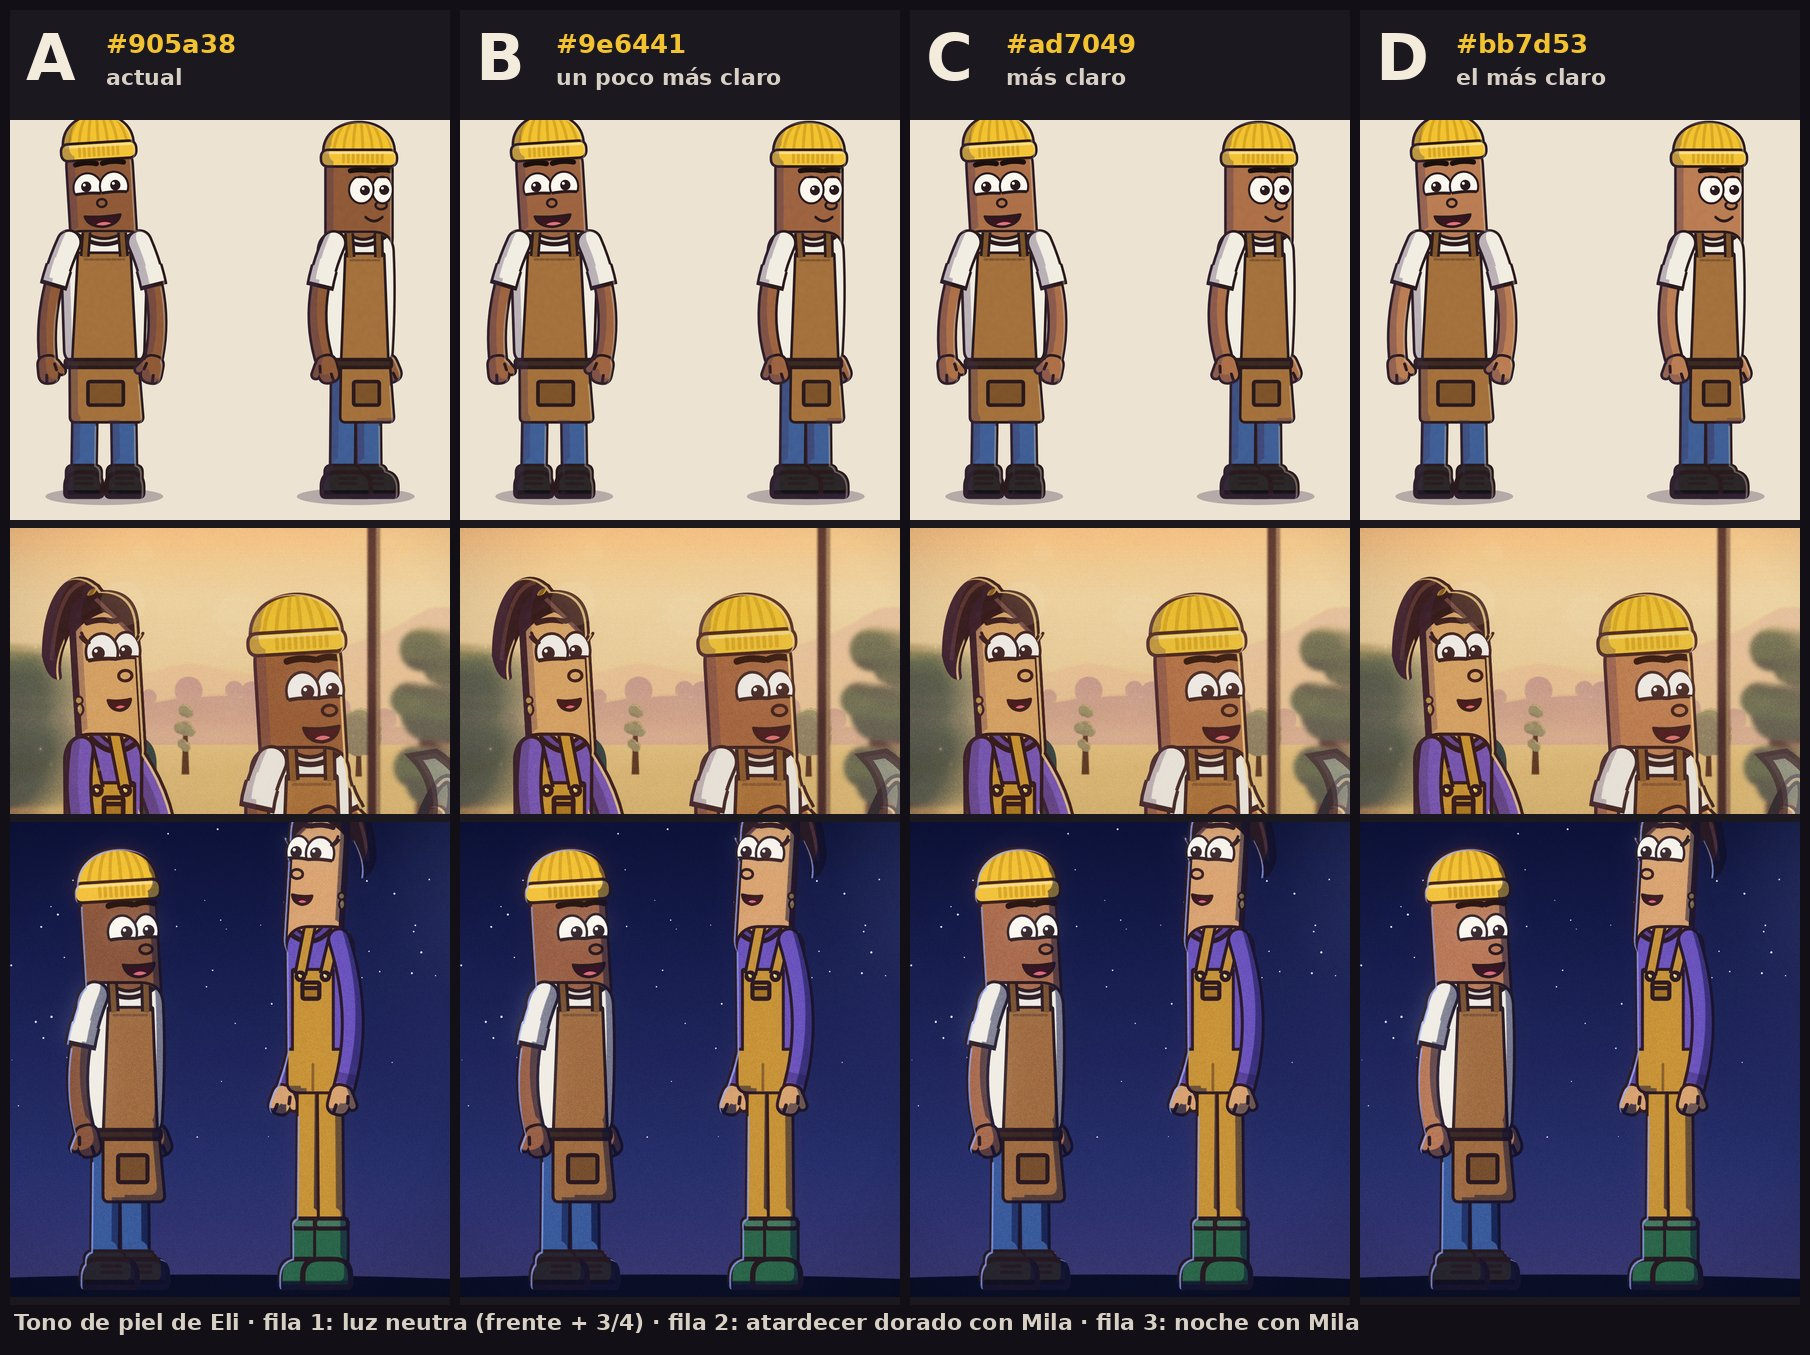
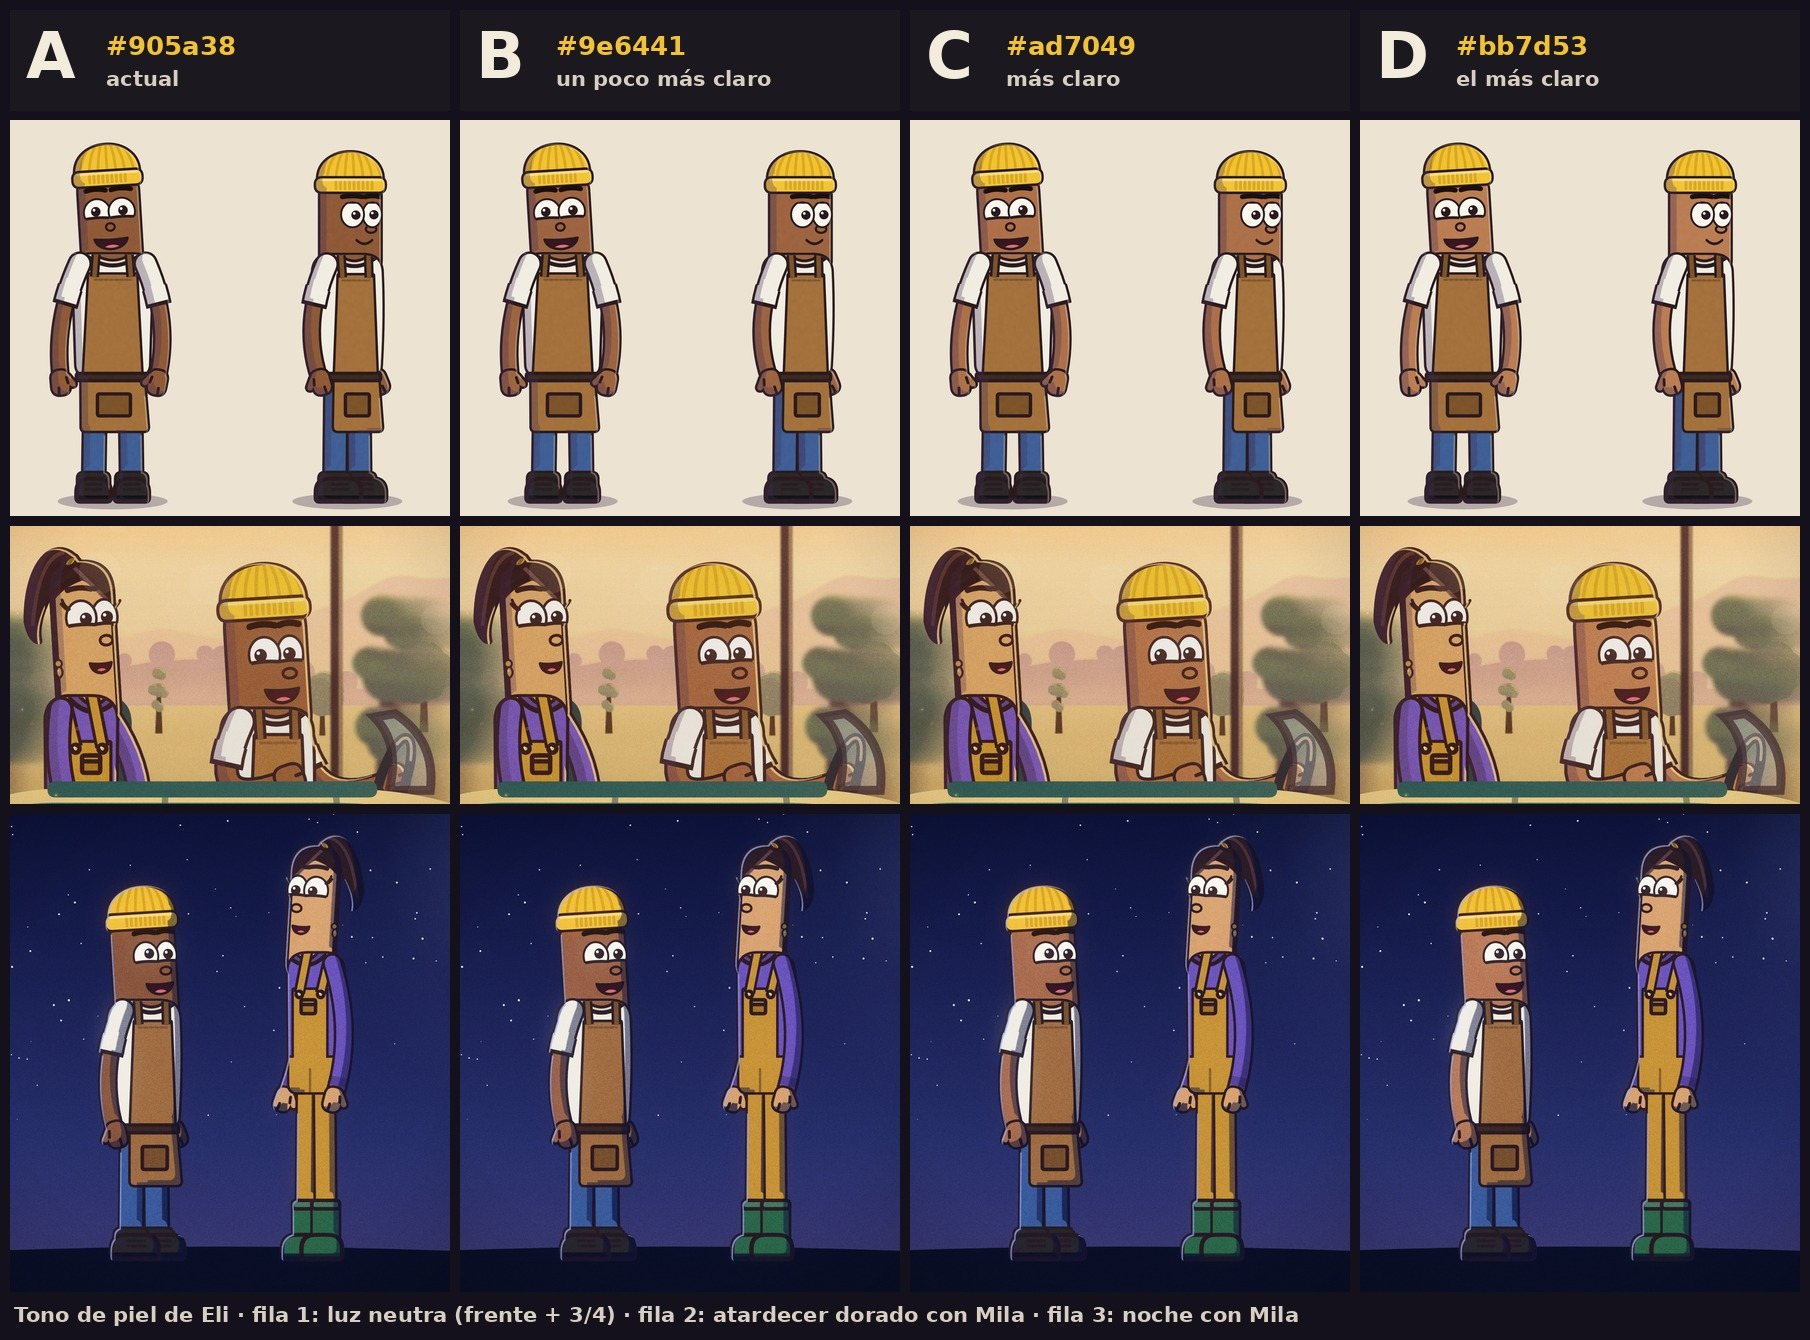
art: Eli tone lab — gaze fixes (Mila looks at Eli; Eli looks up at taller Mila), night reframed, sheet rebuild script
Claude-Session: https://claude.ai/code/session_01Xa8YPWmmU68CUYj3YXfuu9

diff --git a/newchannel/art/scenes/eli_tone_lab.js b/newchannel/art/scenes/eli_tone_lab.js
@@ -22,14 +22,14 @@
       } else if (this.mode === 'golden') {
         E.drawCloseup(ctx, 2.0, null, { t0: 1e9, frame: { z: 2.0, wx: 600, wy: 640, sx: 960, sy: 600 },
           crew: (cx, sx, sy, SC, info) => K.cast.crew2(cx, sx, sy, SC, { driver: id, passenger: 'mila1', t: info.tau, light: Object.assign({}, C.LIGHT.golden, { rim: info.rim }), bob: 0, u: 2.7 * SC,
-            driverO: { pose: 'drive', expr: 'happy', look: [0.6, 0], blink: 0 }, passengerO: { pose: 'lap', expr: 'happy', view: 'q', dir: 1, look: [-0.7, 0], blink: 0 } }) });
+            driverO: { pose: 'drive', expr: 'happy', look: [-0.7, -0.1], blink: 0 }, passengerO: { pose: 'lap', expr: 'happy', view: 'q', dir: 1, look: [0.7, 0.05], blink: 0 } }) });
       } else {
         const g = ctx.createLinearGradient(0, 0, 0, K.H); g.addColorStop(0, '#0b1030'); g.addColorStop(0.7, '#2c3366'); g.addColorStop(1, '#463f6e'); ctx.fillStyle = g; ctx.fillRect(0, 0, K.W, K.H);
         const r = K.rng(5); ctx.fillStyle = '#e8ecff'; for (let k = 0; k < 160; k++) { K.circle(ctx, r() * K.W, r() * 700, 0.8 + r() * 1.6); ctx.fill(); }
         K.light.glow(ctx, 1600, 160, 500, '#9fb4ff', 0.35, 'screen');
         ctx.fillStyle = '#0a0f22'; ctx.beginPath(); ctx.moveTo(0, 1000); ctx.quadraticCurveTo(960, 930, K.W, 1000); ctx.lineTo(K.W, K.H); ctx.lineTo(0, K.H); ctx.fill();
-        C.draw(ctx, id, 780, 990, 900, { view: 'q', dir: 1, pose: 'stand', expr: 'happy', t: 0.6, light: C.LIGHT.night, blink: 0, look: [0.6, -0.1] });
-        C.draw(ctx, 'mila1', 1180, 990, 900, { view: 'q', dir: -1, pose: 'stand', expr: 'happy', t: 0.9, light: C.LIGHT.night, blink: 0, look: [-0.6, -0.1] });
+        C.draw(ctx, id, 800, 990, 800, { view: 'q', dir: 1, pose: 'stand', expr: 'happy', t: 0.6, light: C.LIGHT.night, blink: 0, look: [0.6, -0.55] });
+        C.draw(ctx, 'mila1', 1160, 990, 800, { view: 'q', dir: -1, pose: 'stand', expr: 'happy', t: 0.9, light: C.LIGHT.night, blink: 0, look: [-0.6, 0.25] });
         K.light.grade(ctx, '#3a4aa0', 0.25, 'soft-light');
       }
     },
